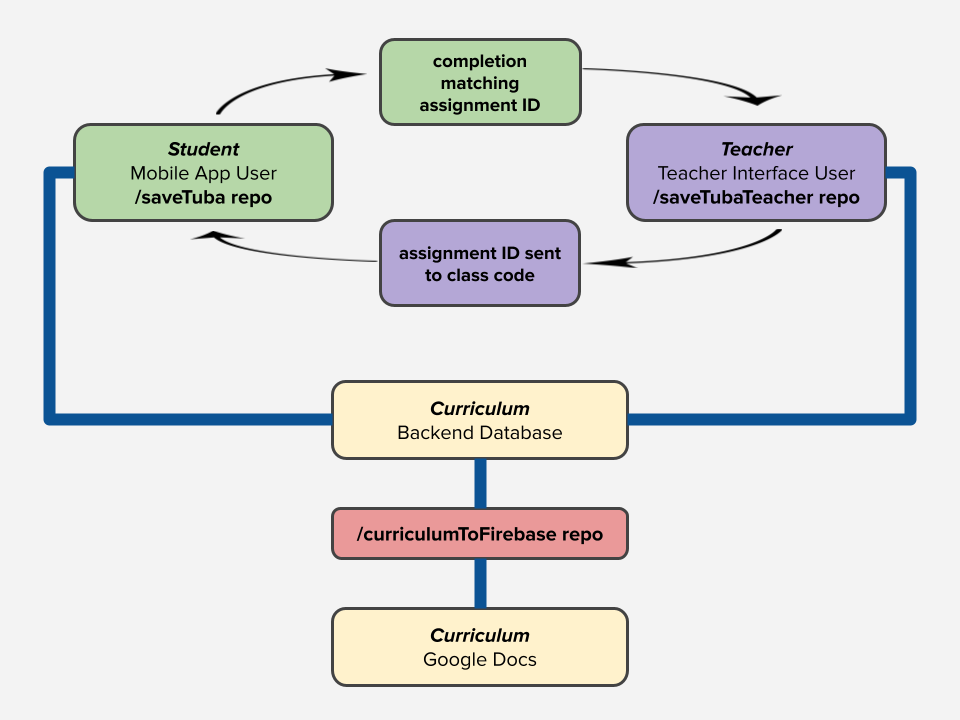
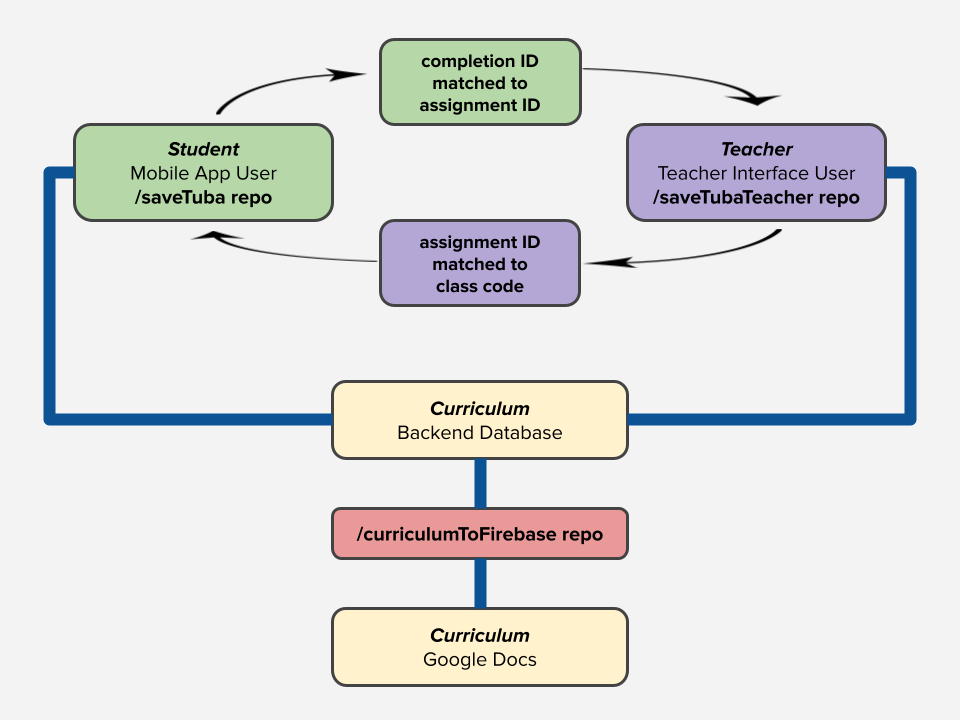
revision to readme

Changed region(s): [[0.4062, 0.3056, 0.5938, 0.4278], [0.4375, 0.0611, 0.5625, 0.1222]]

diff --git a/README.md b/README.md
@@ -144,15 +144,15 @@ TODO: write pushing to prod tutorial once we get our app store and google play a
 
 ## Polyrepo Structure & Data Flow
 
-In this section we will answer two questions: 
-1. **How does the platform work?**
-2. **Why have we architected the system this way?**
+**In this section we will answer two questions:**
+1. How does the platform work?
+2. Why have we architected the system this way?
 
 In order to answer our first question, let us consider the entire set of Save Tuba repositories. As of 2024 we have:
 
-- the /saveTuba repo, which houses our mobile app
-- the /saveTubaTeacher repo, which houses our teacher interface web app
-- the /curriculumToFirebase repo, which houses a web interface that pushes curriculum content from Google Docs into our Firebase database
+- the **/saveTuba** repo, which houses our mobile app
+- the **/saveTubaTeacher** repo, which houses our teacher interface web app
+- the **/curriculumToFirebase** repo, which houses a web interface that pushes curriculum content from Google Docs into our Firebase database
 
 Understanding the interaction between these repos requires understanding of our curriculum. Our curriculum is organized in the following manner: 
 
@@ -162,30 +162,30 @@ In our code, we are able to ID each and every minigame in the following format: 
 
 Now let us look at an example interaction between our mobile app and teacher interface repos.
 
-1. A student on the mobile app is in a class with the example classCode TJOAEM. They are placed in this class on the app.
-2. In the teacher interface, a teacher assigns Grade 2 Chapter 3 Lesson 1 (thereby assigning all of the minigames contained within that lesson) to classCode TJOAEM. The assignment ID is G2C3L1.
-3. On the mobile app, the student sees an assignment for G2C3L1. They then complete the minigames in this lesson. Each minigame completion has an ID as follows: G2C3L1_Quiz, G2C3L1_Snapshot, etc.
-4. In the teacher interface, the teacher views their students' progress in the class TJOAEM. The interface fetches all of the completion documents for each student in class TJOAEM. For our particular example student, let's say there is a match between the ID of a completion document and the ID of the assignment: this means the student has completed at least one minigame in the assigned lesson.
+1. A student on the mobile app is in a class with the example classCode **TJOAEM**. They are placed in this class on the app.
+2. In the teacher interface, a teacher assigns Grade 2 Chapter 3 Lesson 1 (thereby assigning all of the minigames contained within that lesson) to classCode **TJOAEM**. The assignment ID is **G2C3L1**.
+3. On the mobile app, the student sees an assignment for **G2C3L1**. They then complete the minigames in this lesson. Each minigame completion has an ID as follows: **G2C3L1**_Quiz, **G2C3L1**_Snapshot, etc.
+4. In the teacher interface, the teacher views their students' progress in the class **TJOAEM**. The interface fetches all of the completion documents for each student in class **TJOAEM**. For our particular example student, there is a match between the ID of a completion document and the ID of the assignment. This means the student has completed at least one minigame in the assigned lesson.
+
+A diagram detailing the backend structure of our curriculum can be found here: https://docs.google.com/drawings/d/1ovPMbssiIZCtwBWzquHQSWYXgrC_0DbvGT9WYxYoPXM. A diagram detailing the backend organization of users, classrooms, and teachers can be found here: https://docs.google.com/drawings/d/1raQQlftbeLA8N3h1zTlLjwmMHjUmOcFby1Mr6vSp5T0.
 
 ![Polyrepo Diagram](./readme/Polyrepo_Structure.png)
 
-A diagram detailing the backend structure of our curriculum can be found [here](https://docs.google.com/drawings/d/1ovPMbssiIZCtwBWzquHQSWYXgrC_0DbvGT9WYxYoPXM). A diagram detailing the backend organization of users, classrooms, and teachers can be found [here](https://docs.google.com/drawings/d/1raQQlftbeLA8N3h1zTlLjwmMHjUmOcFby1Mr6vSp5T0).
-
 Onto the why:
 
-**Q. Why does the teacher interface need only completion IDs?**
+**Q. Why does the teacher interface need only completion IDs?**  
 A. In order to minimize the complexity of our system, we pass only IDs back and forth. This minimizes the amount of JSON being changed in our Firebase documents and adheres to typical nonrelational database patterns. That is to say, on the teacher interface, the completion data corresponding to an ID can be pulled on-demand using key-value pairs.
 
-**Q. Why does the mobile app need only assignment IDs?**
+**Q. Why does the mobile app need only assignment IDs?**  
 A. In keeping with the above answer, we want to pass only IDs to minimize complexity. On the mobile app, all curriculum content is pulled on-demand from our curriculum documents in Firebase. So all we need is to track a student's completions via completion IDs within Firebase, and then the teacher interface has everything it needs.
 
-**Q. How are students organized into classes?**
+**Q. How are students organized into classes?**  
 A. Each student is prompted to enter a class code on their initial sign-in on the mobile app. In Firebase, this class code is appended to the student's document once it is entered. The class code is also appended to the teacher's document.
 
-**Q. Why is our curriculum in Google Docs?**
+**Q. Why is our curriculum in Google Docs?**  
 A. Our non-tech teammates need a comfortable place to write new curriculum. They have decided on Google Docs. The challenge for the software team, then, is to convert all 500+ pages of curriculum documents into scriptable JSON which can be fed into Firebase. This challenge is solved by the script in /curriculumToFirebase
 
-### Previous Software Team Leads
+## Previous Software Team Leads
 
 James Chang (team of '24)  
 Hayden Ossinger (team of '23)  
@@ -194,7 +194,7 @@ Nadja Stojanovic (team of '22)
 Malika Buribayeva (Head of External Relations, team of '23 and '24)  
 Malika is from Almaty and has several points of contact in the educational sphere. She is the bridge between us and our external partners. All questions regarding contacts overseas should be directed to her.
 
-### Miscellaneous
+## Miscellaneous
 
 Below you can find a collection of my favorite conference talks, tech videos, articles, and dev blogs. Enjoy!
 
